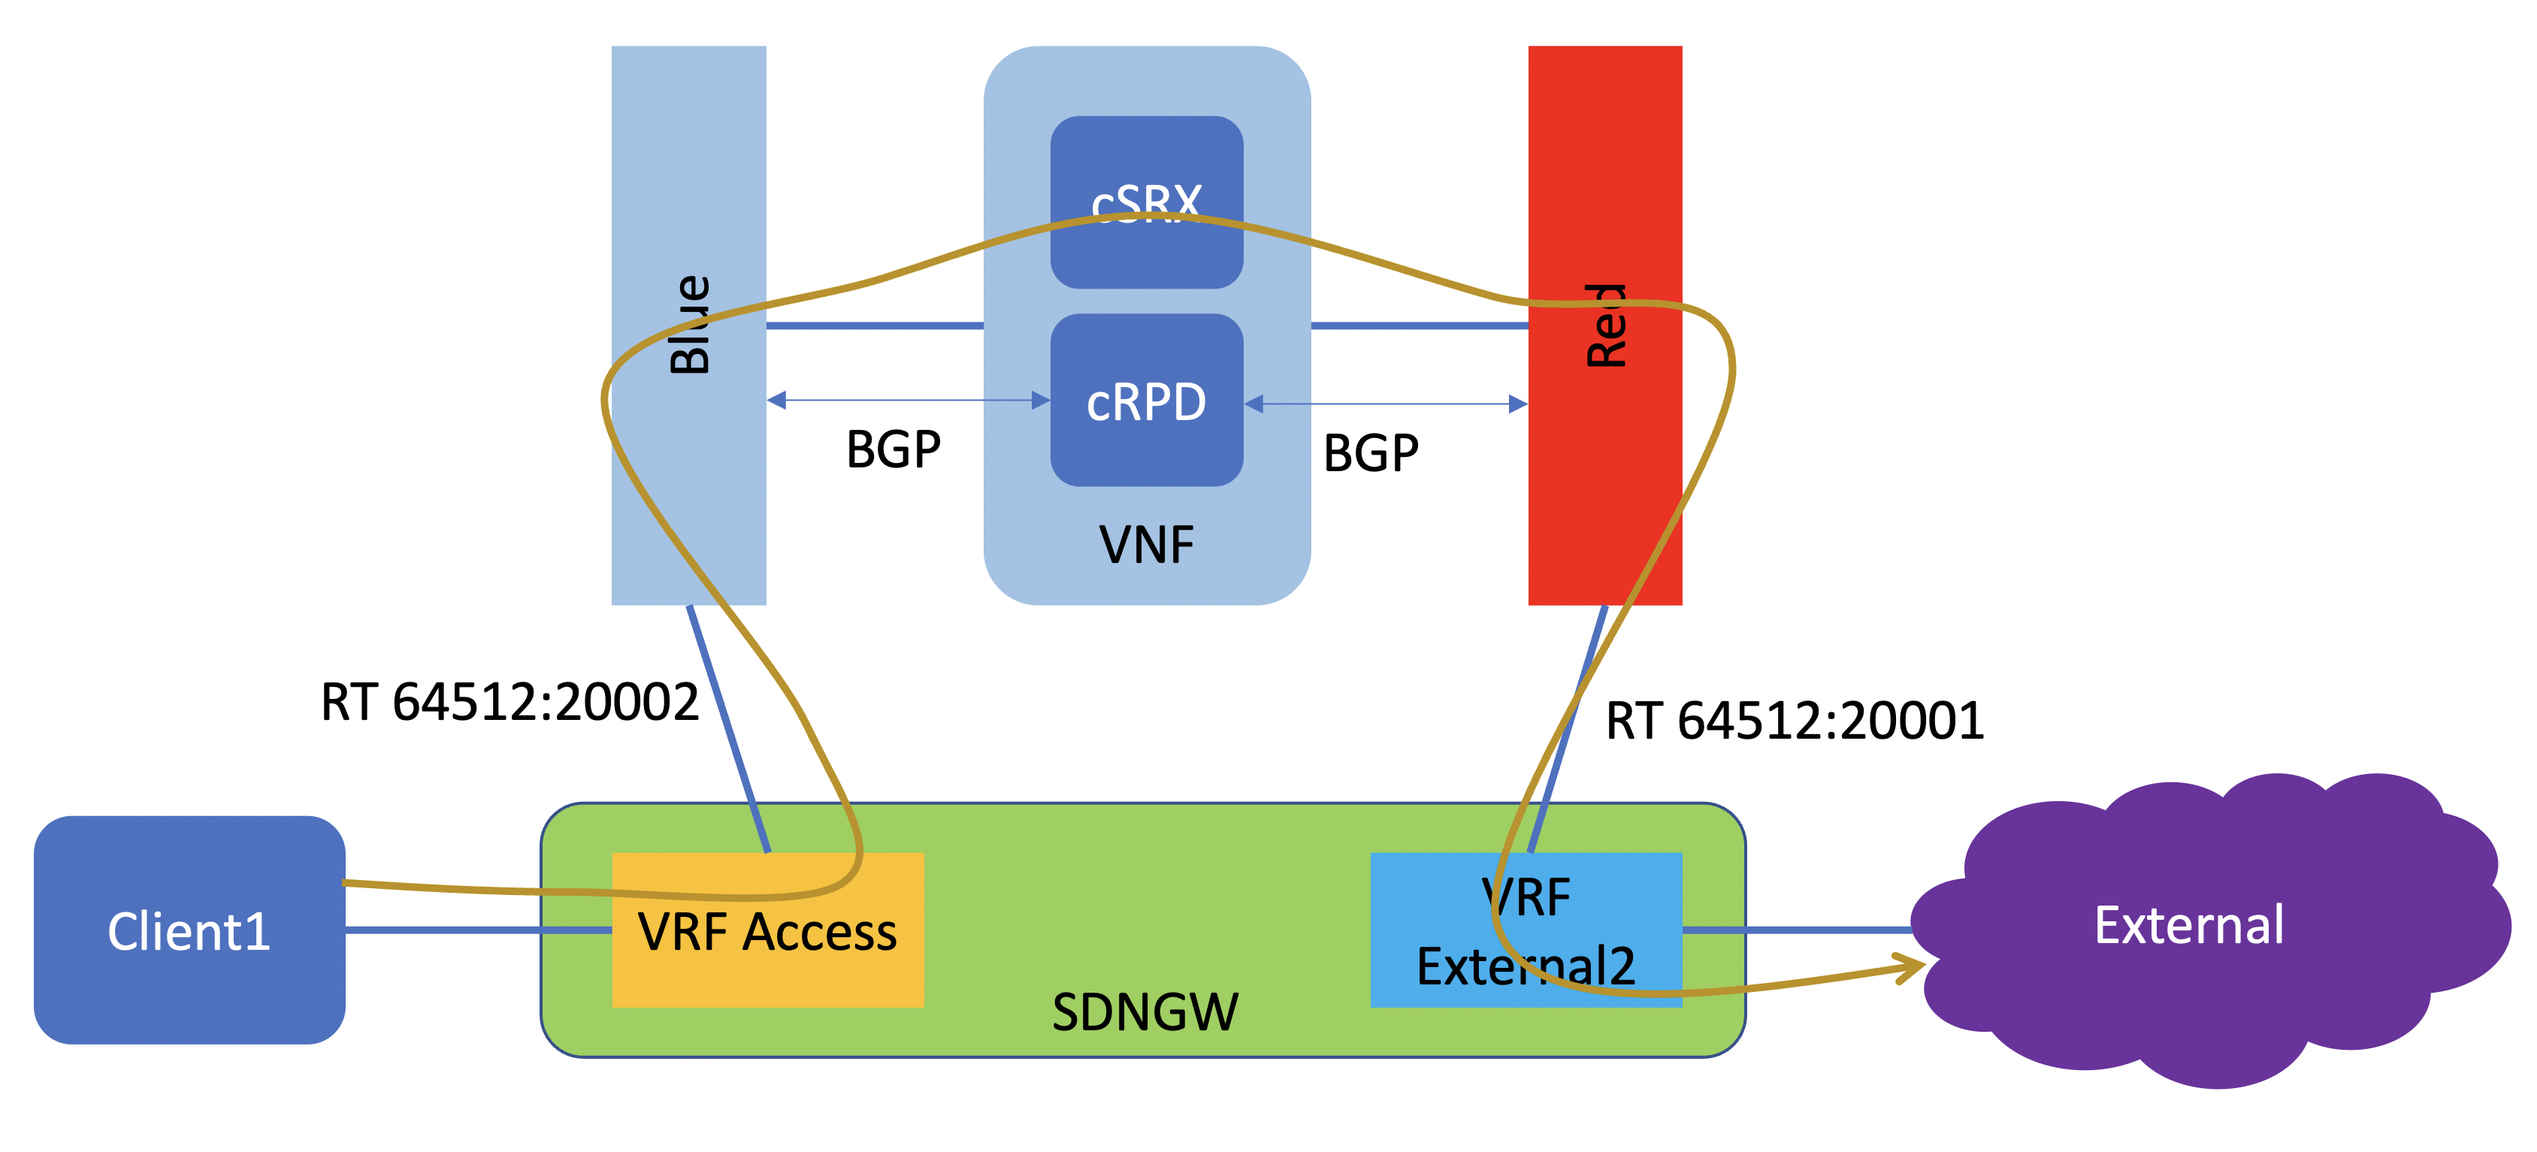
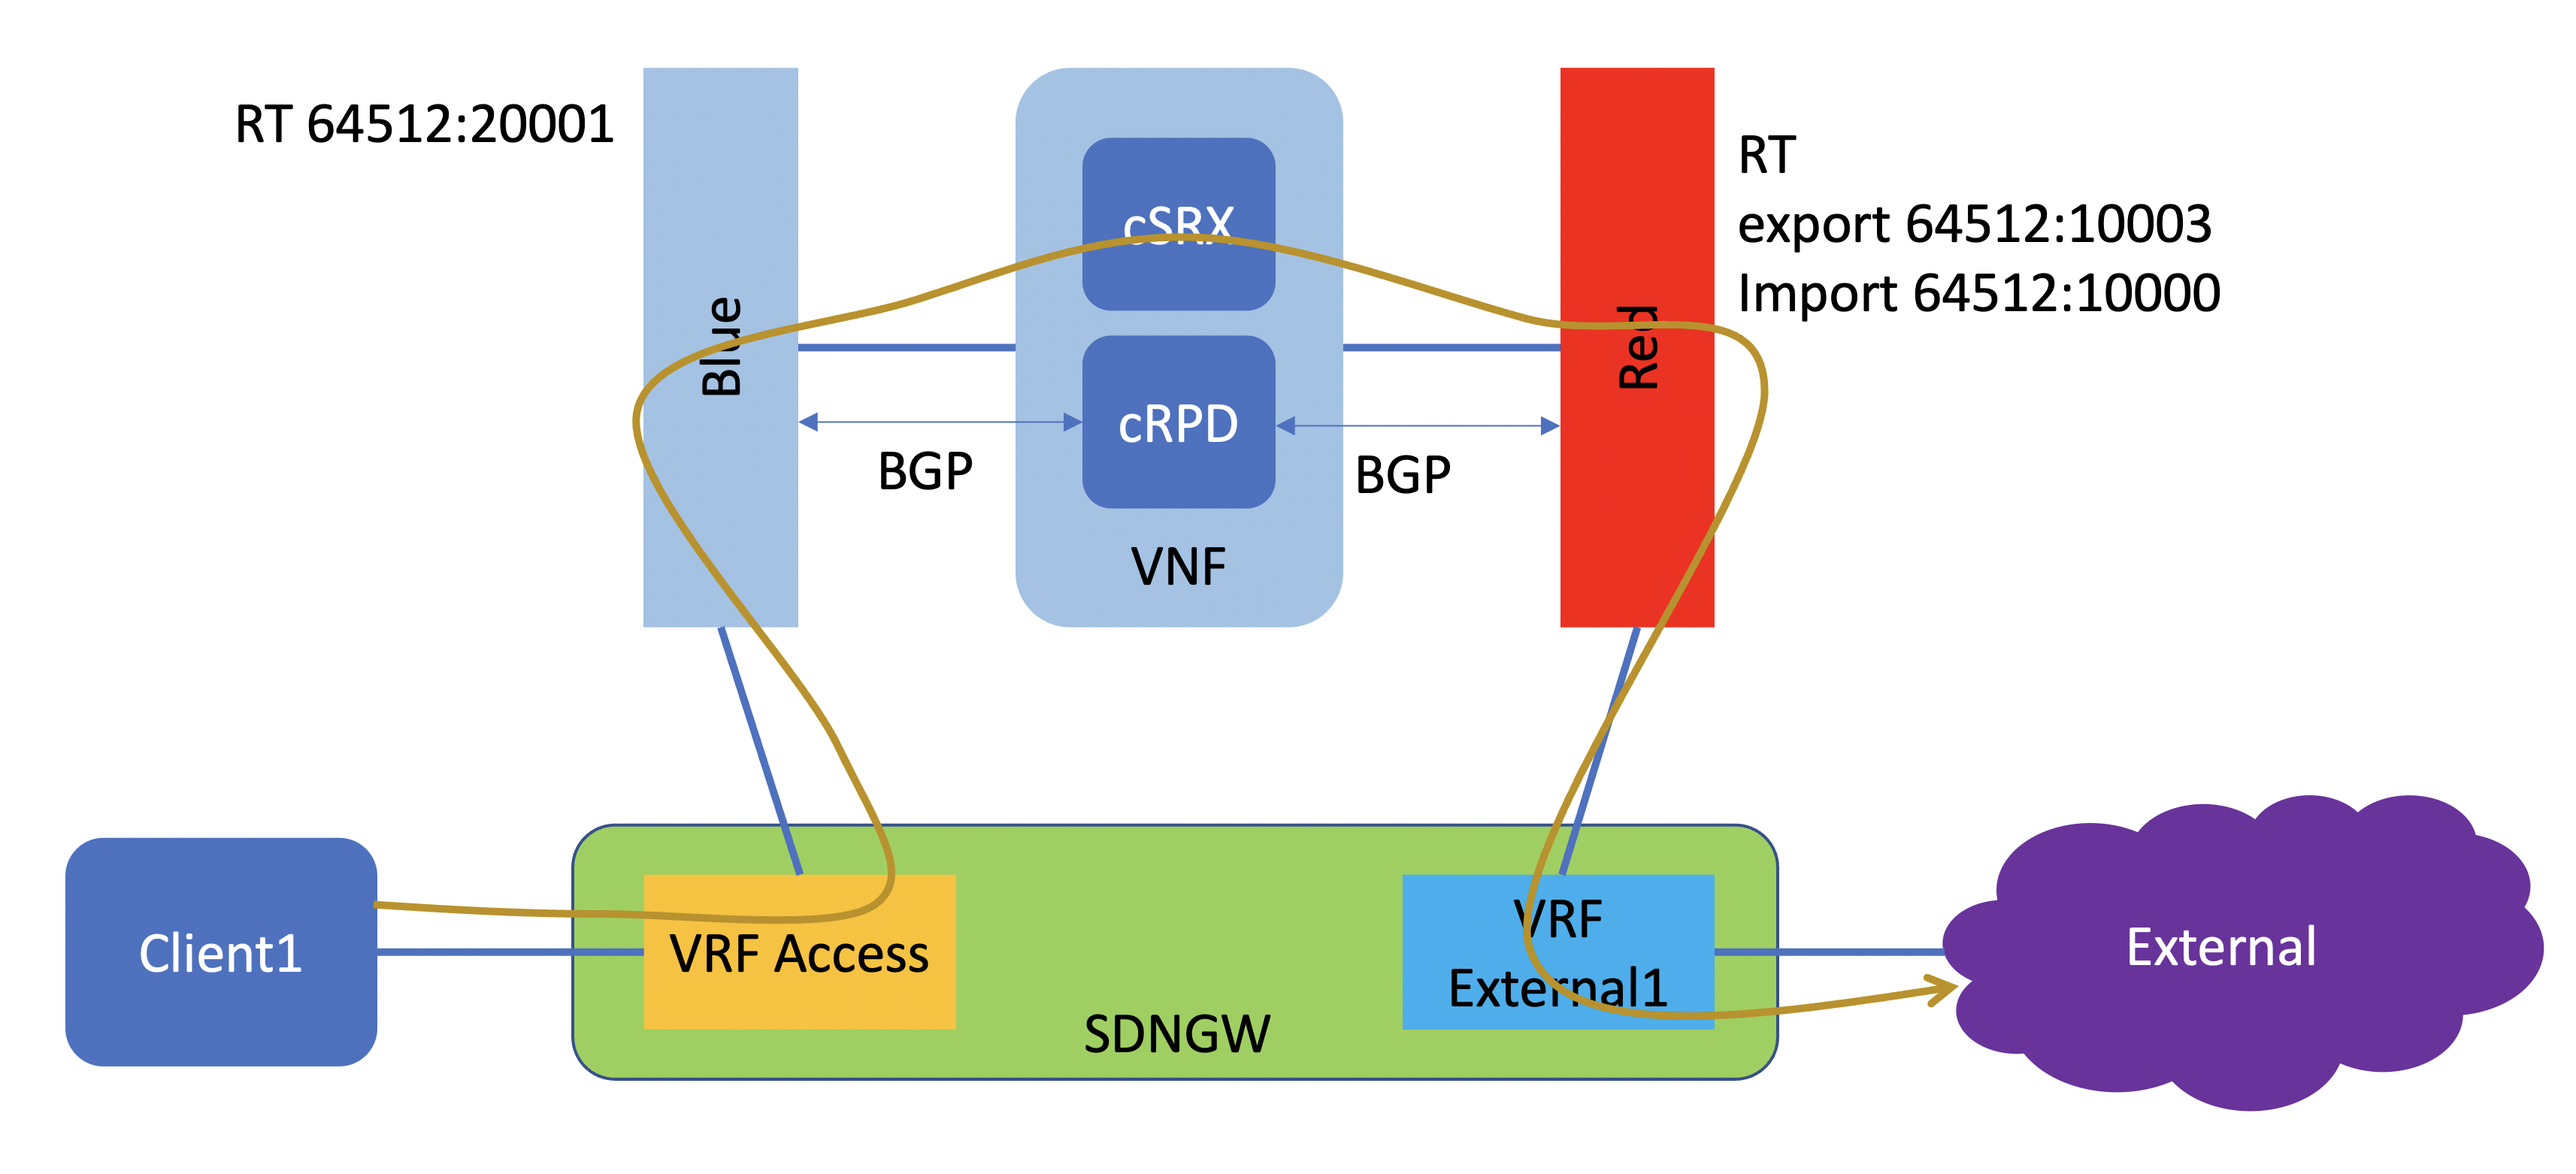
update lab4 cn2

diff --git a/Lab/cn2/lab_exercise/lab4/README.md b/Lab/cn2/lab_exercise/lab4/README.md
@@ -18,6 +18,20 @@ Object to be configured in this lab exercise:
 ## Documentation
 Documentation on how to configure BGPaaS can be found [here](https://www.juniper.net/documentation/us/en/software/cn-cloud-native22/cn-cloud-native-feature-guide/cn-cloud-native-network-feature/topics/task/cn-cloud-native-bgp-as-service.html)
 
+## uploading cSRX and cRPD image into local repository
+1. Download csrx and crpd software, and upload them into node registry
+2. Load csrx and crpd software image into local repository
+
+        podman image load -i junos-csrx-docker-22.1R1.10.img
+        podman image load -i junos-routing-crpd-amd64-docker-22.1R1.10.tgz
+
+3. Create tag for csrx and crpd images
+4. Push csrx and crpd image into the local repository
+
+![image1.png](images/image1.png)
+![image2.png](images/image2.png)
+![image3.png](images/image3.png)
+
 ## Steps/Lab exercise
 
 1. Use manifest file [lab4_network.yaml](lab4_network.yaml), to create namespace and virtual network
@@ -112,41 +126,91 @@ the topology is  the following
 
 ![sc2.png](images/sc2.png)
 
-1. on SDN Gateway create two routing instances, access and external2.
+1. on SDN Gateway create two routing instances, access and external1.
     - VRF Access for connection to client
-    - VRF external for connection to external network/internet
-2. VRF access configuration
+    - VRF external1 for connection to external network/internet
 
-        set interfaces ge-0/0/2 unit 0 family inet address 172.16.201.1/24
+2. Add the following configuration on the SDN gateway for VRF access configuration
+
         set routing-instances access instance-type vrf
         set routing-instances access routing-options multipath vpn-unequal-cost
-        set routing-instances access interface ge-0/0/2.0
-        set routing-instances access vrf-target target:64512:20013
+        set routing-instances access interface ge-0/0/3.0
+        set routing-instances access vrf-target target:64512:20001
         set routing-instances access vrf-table-label
-3. VRF external2 configuration
+3. Commit the configuration on the sdn gateway and verify that on routing table access.inet.0 and external1.inet.0, have not received routing update regaring VN **blue** and **red**
 
-        set routing-instances external2 instance-type vrf
-        set routing-instances external2 protocols bgp group to_gw neighbor 172.16.13.132 peer-as 65200
-        set routing-instances external2 interface ge-0/0/0.2
-        set routing-instances external2 vrf-target target:64512:20012
-        set routing-instances external2 vrf-table-label
-        set interfaces ge-0/0/0 unit 2 vlan-id 2
-        set interfaces ge-0/0/0 unit 2 family inet address 172.16.13.133/31
+        ssh sdngw "show route table access.inet.0"
+        ssh sdngw "show route table external1.inet.0"
 
-4. on contrail, configure the following
-    - set route target for export and import route between :
-        * vn-left and VRF access
-        * vn-right and VRF external1
-    - configure vn-left and vn-right to allow-transit
+![lab4_13.png](images/lab4_13.png)
 
-5. Verify the content of the routing table
-    - on SDN Gateway
-        * VRF access routing table
-        * VRF external2 routing table
-    - on Contrail controller
-        * vn-left routing table
-        * vn-right routing table
+4. Apply manifest file [lab4_network_rt.yaml](lab4_network_rt.yaml) to add route target to virtual network **blue** and **red**
 
-6. Test connectivity between client and external and verify that the traffic is being forwarded through service instance csrx
+        kubectl -n lab4 describe vn blue    ## to verify that route target has not been configured yet
+        kubectl -n lab4 describe vn red    ## to verify that route target has not been configured yet
+
+        kubectl apply -f lab4_network_rt.yaml
+
+        kubectl -n lab4 describe vn blue    ## to verify that route target has been configured yet
+        kubectl -n lab4 describe vn red    ## to verify that route target has been configured yet
+
+
+5. open session to container **crpd1** on pod **vnf1**, delete the export policy configured on bgp peer, and add **as-override**
+
+        kubectl -n lab4 exec -it vnf1 -c crpd1 -- cli
+        delete protocols bgp group to_left neighbor 192.168.101.3 export
+        delete protocols bgp group to_right neighbor 192.168.102.3 export
+        set protocols bgp group to_left neighbor 192.168.101.3 as-override
+        set protocols bgp group to_right neighbor 192.168.102.3 as-override
+        commit
+
+6. on node **sdngw**, add the following configuration
+
+        ssh sdngw
+        edit
+        set routing-options autonomous-system loops 4
+        commit
+
+7. The following steps is required, since I haven't been able to figure out why cSRX is not using the the routing information provided by cRDP.
+8. Open cli session into container **crpd1** on pod **vnf1**, and add the following static route configuration
+
+        kubectl -n lab4 exec -it vnf1 -c crsx1 -- cli
+        edit
+        set routing-options static route 0.0.0.0/0 next-hop 192.168.102.1/32
+        set routing-options static route 192.168.200.0/24 next-hop 192.168.101.1/32
+        commit
+
+8. from your workstation, open ssh session to node **proxy**
+
+        ssh -fN proxy
+
+9. On the webbrowser, proxy with the following parameter
+   - type: manual proxy
+   - SOCKS host : 127.0.0.1
+   - Port 1080
+
+        this is the configuration on firefox web browser
+        ![firefox.png](images/firefox.png)
+
+10. Open browser tab, and open session to http://172.16.11.1:6087/vnc.html. This is the web UI to access console of node **client1**
+        ![firefox2.png](images/firefox2.png)
+
+11. click connect, and login using user/password : ubuntu/pass01
+
+    ![firefox3.png](images/firefox3.png)
+
+12. Set the netconfiguration with the following paramenter
+    - ip address : 192.168.200.11
+    - netmask : 255.255.255.0
+    - gateway : 192.168.200.1
+    - DNS : 66.129.233.81, 66.129.233.82
+    ![firefox4.png](images/firefox4.png)
+
+13. On node **client**, open terminal or web browser to iniate traffic to internet, and on container **csrx1** pod **nfv1** verify these traffic from the sesssion flow information
+
+![firefox5.png](images/firefox5.png)
+
+![firefox6.png](images/firefox6.png)
+
 
 
